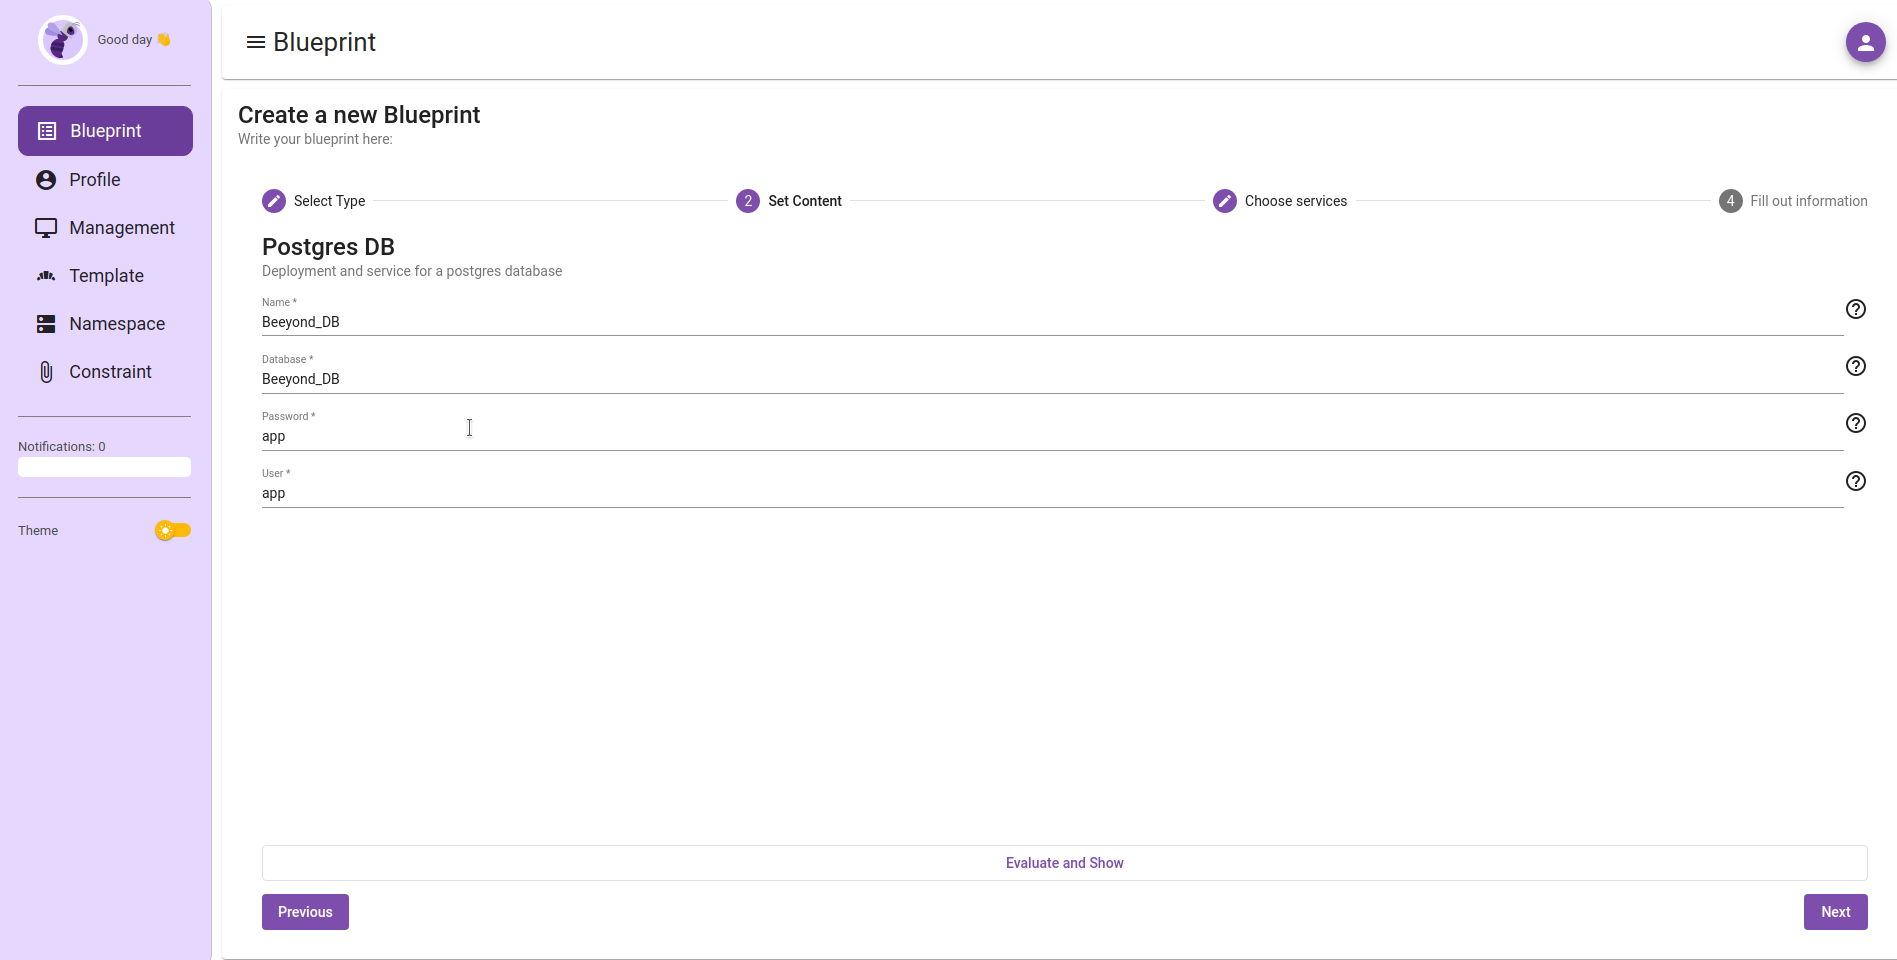
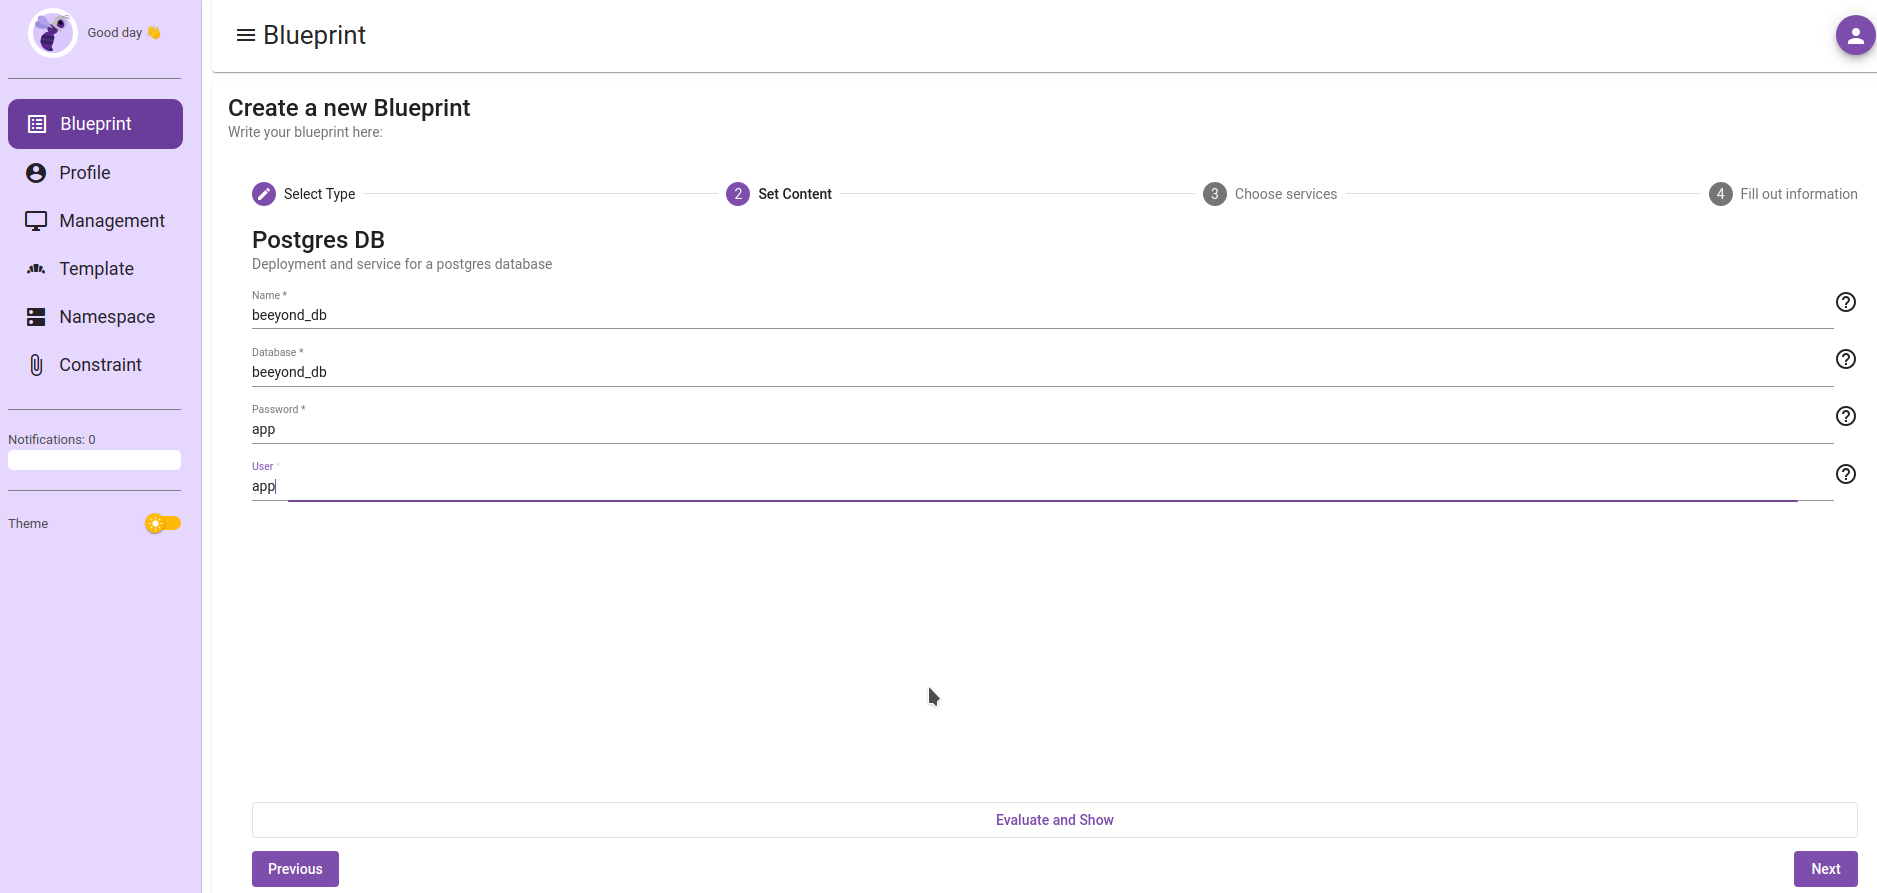
deploy: 74f5d8e68cf4af2409611a6965e2bfe14647c446

diff --git a/tutorial.html b/tutorial.html
@@ -484,7 +484,8 @@ Tab Blueprint das Template für PostgresDB auswählen.</p>
 <div class="paragraph">
 <p>Nun müssen die Felder entsprechend gesetzt werden. Man muss
 einen Namen für das Deployment, einen Namen für die Datenbank
-und den Benutzer und das Passwort der DB angeben.</p>
+und den Benutzer und das Passwort der DB angeben. Der Name des
+Deployments <strong>muss</strong> klein geschrieben werden.</p>
 </div>
 <div class="imageblock">
 <div class="content">

diff --git a/pflichtenheft.html b/pflichtenheft.html
@@ -496,7 +496,7 @@ Durch die Automatisierung vereinfachen sich die administrativen Tätigkeiten.</p
 </div>
 <div id="footer">
 <div id="footer-text">
-Last updated 2022-04-15 11:47:22 UTC
+Last updated 2022-04-18 17:02:22 UTC
 </div>
 </div>
 </body>

diff --git a/protokolle/2020-05-25.html b/protokolle/2020-05-25.html
@@ -590,7 +590,7 @@ body.book #toc,body.book #preamble,body.book h1.sect0,body.book .sect1>h2{page-b
 </div>
 <div id="footer">
 <div id="footer-text">
-Last updated 2022-04-15 11:47:22 UTC
+Last updated 2022-04-18 17:02:22 UTC
 </div>
 </div>
 </body>

diff --git a/protokolle/2020-11-10.html b/protokolle/2020-11-10.html
@@ -544,7 +544,7 @@ body.book #toc,body.book #preamble,body.book h1.sect0,body.book .sect1>h2{page-b
 </div>
 <div id="footer">
 <div id="footer-text">
-Last updated 2022-04-15 11:47:22 UTC
+Last updated 2022-04-18 17:02:22 UTC
 </div>
 </div>
 </body>

diff --git a/protokolle/2022-03-31.html b/protokolle/2022-03-31.html
@@ -514,7 +514,7 @@ body.book #toc,body.book #preamble,body.book h1.sect0,body.book .sect1>h2{page-b
 </div>
 <div id="footer">
 <div id="footer-text">
-Last updated 2022-04-15 11:47:22 UTC
+Last updated 2022-04-18 17:02:22 UTC
 </div>
 </div>
 </body>

diff --git a/protokolle/protokoll-vorlage.html b/protokolle/protokoll-vorlage.html
@@ -509,7 +509,7 @@ body.book #toc,body.book #preamble,body.book h1.sect0,body.book .sect1>h2{page-b
 </div>
 <div id="footer">
 <div id="footer-text">
-Last updated 2022-04-15 11:47:22 UTC
+Last updated 2022-04-18 17:02:22 UTC
 </div>
 </div>
 </body>
